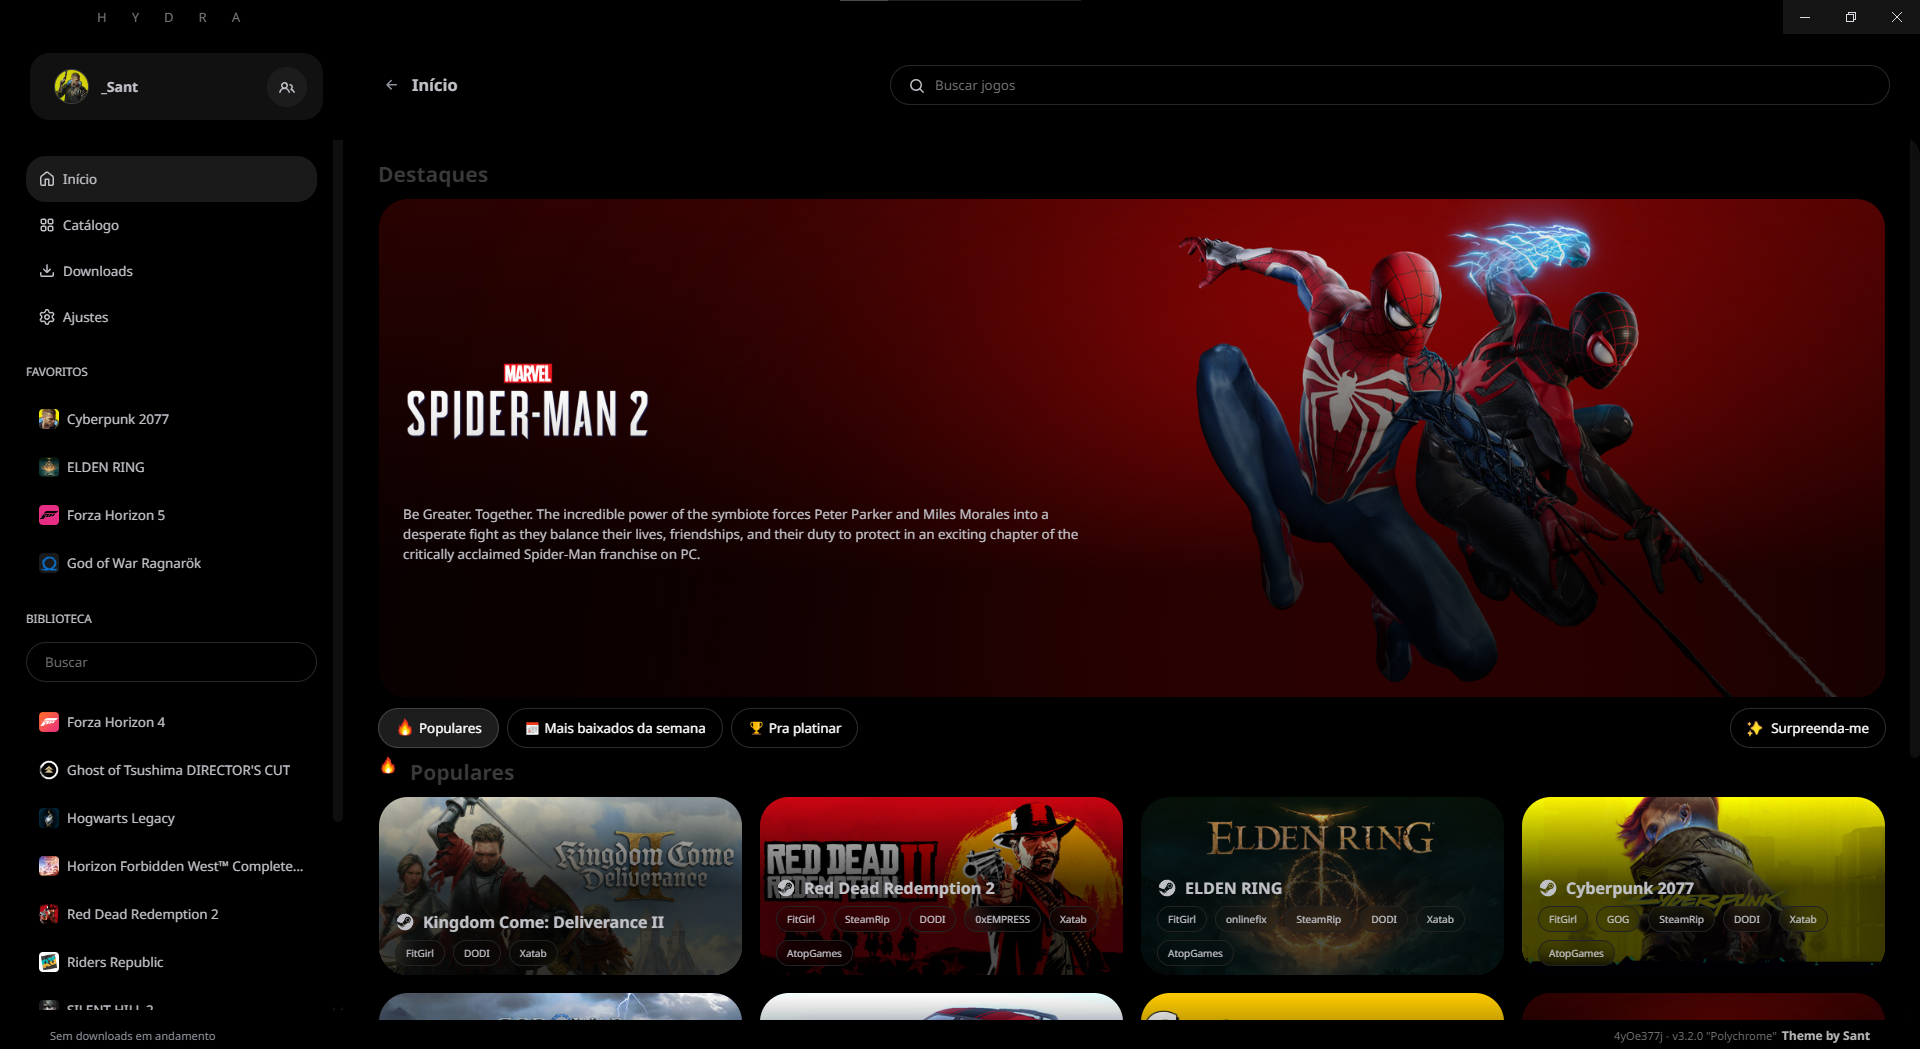
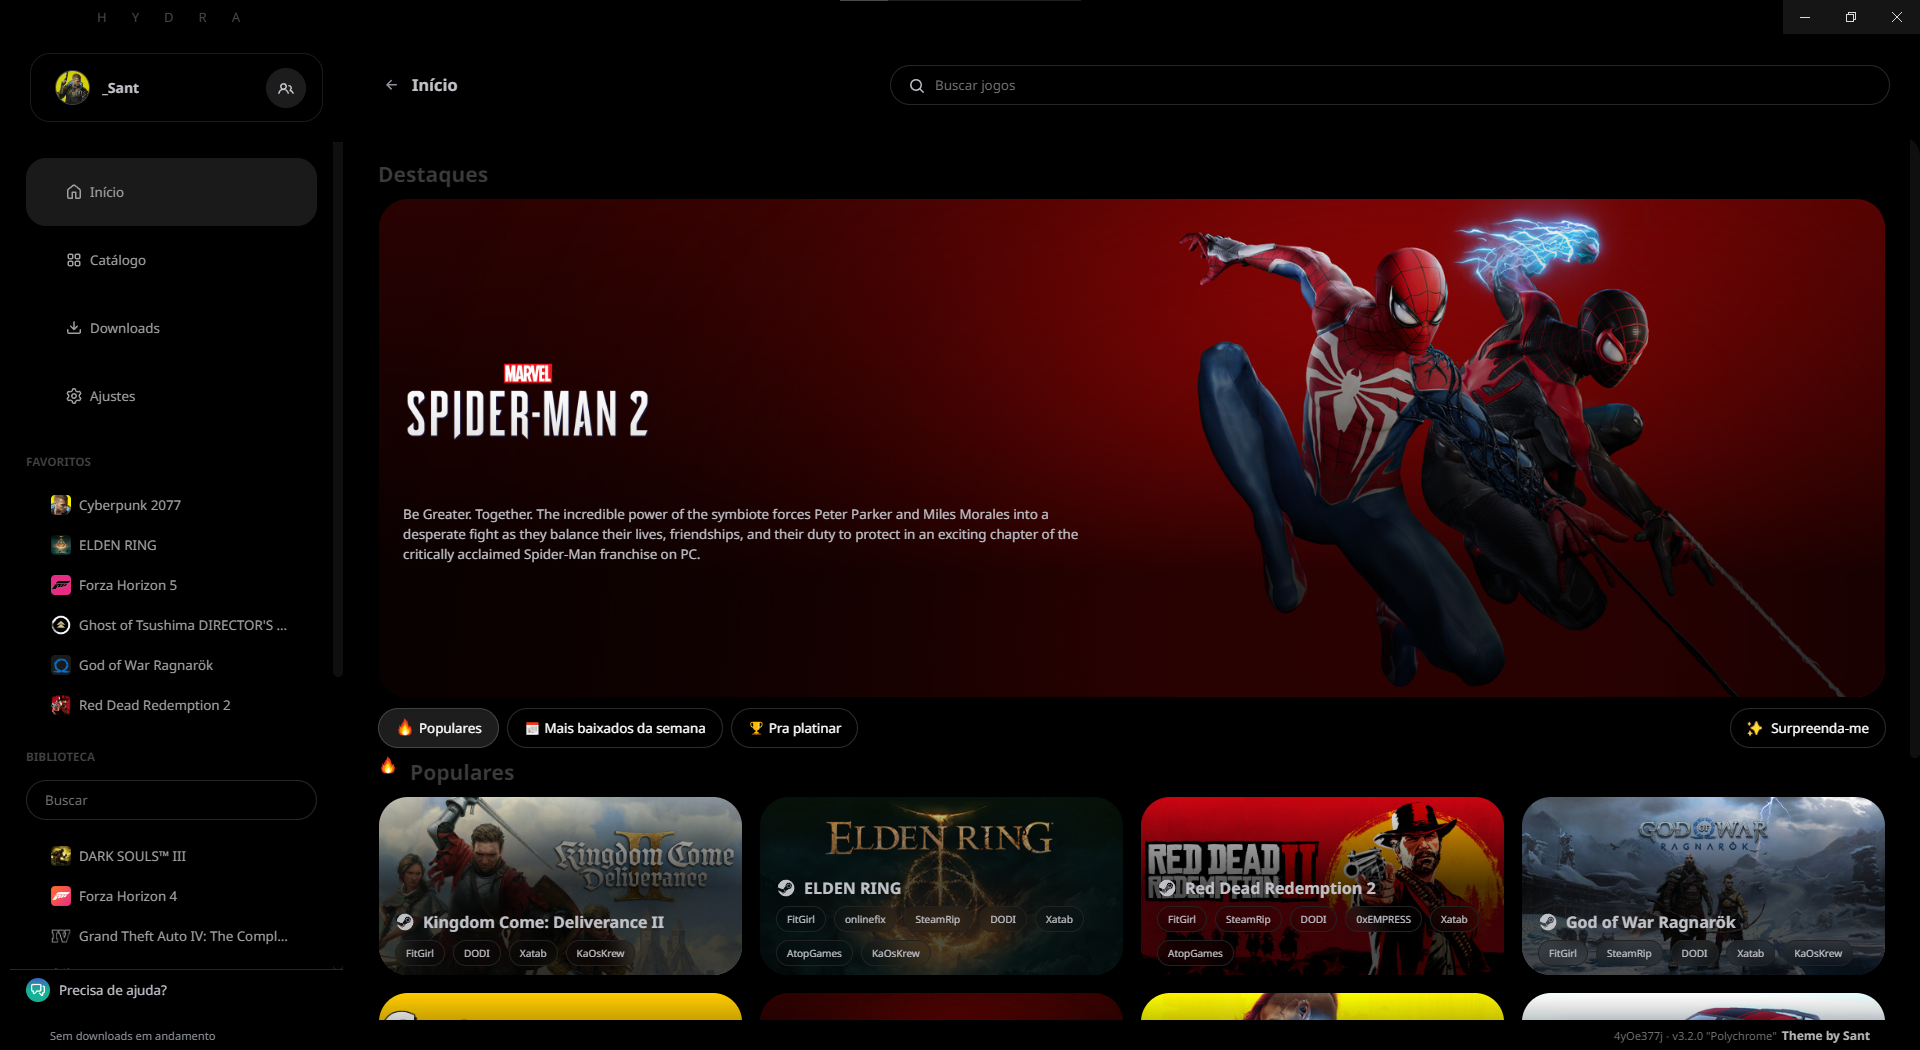
Dark Oled att

diff --git a/themes/DarkOled-z5qRMKnj/theme.css b/themes/DarkOled-z5qRMKnj/theme.css
@@ -1,15 +1,3 @@
-
-  /*
-    Here you can edit CSS for your theme and apply it on Hydra.
-    There are a few classes already in place, you can use them to style the launcher.
-
-    If you want to learn more about how to run Hydra in dev mode (which will allow you to inspect the DOM and view the classes)
-    or how to publish your theme in the theme store, you can check the docs:
-    https://docs.hydralauncher.gg/
-
-    Happy hacking!
-  */
-
   /* Header */
   body{
     font-weight: 100;
@@ -27,6 +15,10 @@
     padding: 30px;
   }
 
+  #root > main > aside > div > div.sidebar__content > section:nth-child(1) > ul > li.sidebar__menu-item{
+    padding: 20px 20px;
+  }
+
   /* Sidebar */
   .sidebar {
     background: rgba(0, 0, 0, 0);
@@ -34,8 +26,6 @@
     margin: 10px;
     border-radius: 0px;
   }
-
-  
 
   /* Main content */
   .container__content {
@@ -87,6 +77,14 @@
     background-color: rgb(0, 0, 0);
     display: flex;
     align-items: center;
+  }
+
+  .user-friend-item__container{
+    border-radius: 20px;
+  }
+
+  .achievements-content__achievements-list__section__table-header {
+    background-color: #000000;
   }
 
 .bottom-panel__version-button {
@@ -184,20 +182,28 @@ h4 {
 
 .sidebar__menu.sidebar__menu-item-button{
   margin: 10px;
-  padding: 10px 15px;
+  padding: 50px;
   gap: 20px;
 }
 
+.sidebar__menu-item-button{
+  padding: 5px 20px;
+  border-radius: 2px;
+  color: #a0a0a0;
+}
+
 .sidebar__section.sidebar__menu-item{
-  padding: 5px 15px;
+  padding: 50px 5px;
   border-radius: 30px;
 }
 
-.sidebar-profile{
-  background-color: rgb(17, 17, 17);
+.sidebar-profile {
+  background-color: rgb(0, 0, 0);
   border-radius: 20px;
   margin: 0px 20px;
+  border: 1px solid #1a1a1a; /* Correção aqui */
 }
+
 
 .profile-avatar{
   border-radius: 100px;
@@ -233,7 +239,8 @@ h4 {
 }
 
 .sidebar__section-title{
-  font-weight: 100;
+  font-weight: 30bold0;
+  color: #424242;
 }
 
 .text-field-container__text-field--dark{
@@ -418,6 +425,10 @@ home__content.h2{
   background-color: none;
 }
 
+.profile-hero__background-image{
+  border-radius: 30px;
+}
+
 .profile-hero__avatar-button{
   border-radius: 100px;
   box-shadow: none;
@@ -486,7 +497,33 @@ transform: scale(1.03);
 .achievement-panel{
   background-color: #000000;
   color: rgba(255, 255, 255, 0.575);
-  border-color: #ffffff27;
+  border-color: #00000027;
+}
+
+.achievements-content__achievements-list__section__table-header {
+  border-color: #00000027;
+}
+
+.achievements__item achievements__item-compared{
+  border-radius: 30px;
+}
+
+.friends-box__box{
+  border-radius: 20px;
+  border-color: black;
+  background-color: rgba(58, 58, 58, 0.274);
+}
+
+a:hover{
+    border-radius: 20px;
+}
+
+.user-stats__section-header, .recent-games__section-header, .friends-box__section-header{
+  font-size: 10px;
+}
+
+.friends-box__list{
+  gap: 0px;
 }
 
 .achievements__list{
@@ -585,3 +622,4 @@ transform: scale(1.03);
   background-color: #00000010;
   backdrop-filter: blur(10px);
 }
+
